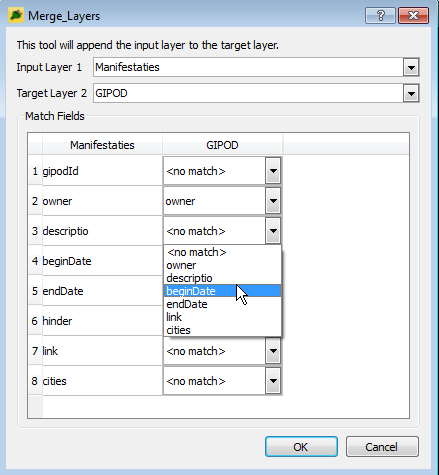
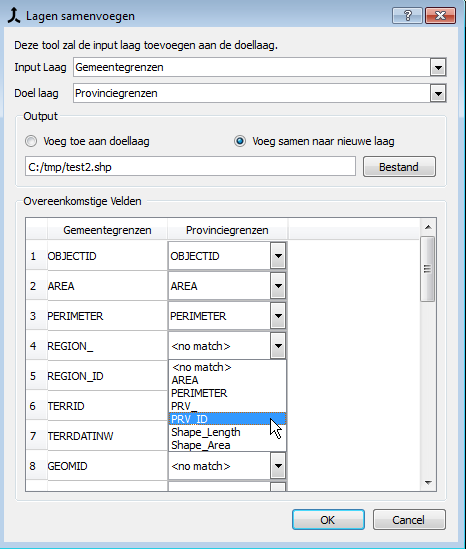
User can select if (s)he wants to write to new layer or the target layer.

Changed region(s): [[0.0, 0.0, 1.0, 1.0], [0.9772, 0.2063, 1.0, 0.2653], [0.9772, 0.9726, 1.0, 1.0]]

diff --git a/i18n/mergeLayers_nl.ts b/i18n/mergeLayers_nl.ts
@@ -18,7 +18,7 @@
     <message>
         <location filename="mergeLayers_dialog.py" line="20"/>
         <source>&lt;no match&gt;</source>
-        <translation>&lt;geen match&gt;</translation>
+        <translation type="obsolete">&lt;geen match&gt;</translation>
     </message>
     <message>
         <location filename="mergeLayers_dialog.py" line="48"/>
@@ -26,14 +26,49 @@
         <translation type="obsolete">Laag {0} zal toegevoegd worden aan {1}</translation>
     </message>
     <message>
-        <location filename="mergeLayers_dialog.py" line="110"/>
+        <location filename="mergeLayers_dialog.py" line="132"/>
         <source>Geometries don&apos;t match</source>
         <translation>Geometrietypes komen niet overeen</translation>
     </message>
     <message>
-        <location filename="mergeLayers_dialog.py" line="110"/>
+        <location filename="mergeLayers_dialog.py" line="132"/>
         <source>The geometries of inputlayer and targerlayer don&apos;t match, so the files can&apos;t be merged</source>
         <translation>Het geometrietype van de inputlaag en de doellaag komen niet overeen, hierdoor kunnen de bestanden niet samngevoegd worden</translation>
+    </message>
+    <message>
+        <location filename="mergeLayers_dialog.py" line="184"/>
+        <source>Save As</source>
+        <translation>Opslaan als</translation>
+    </message>
+    <message>
+        <location filename="mergeLayers_dialog.py" line="127"/>
+        <source>Warning</source>
+        <translation>Waarschuwing</translation>
+    </message>
+    <message>
+        <location filename="mergeLayers_dialog.py" line="116"/>
+        <source>Layers are not set correctly</source>
+        <translation>Lagen zijn niet correct ingesteld</translation>
+    </message>
+    <message>
+        <location filename="mergeLayers_dialog.py" line="127"/>
+        <source>Target is not editable, try merge to new layer</source>
+        <translation>Doel laag is niet bewerkbaar</translation>
+    </message>
+    <message>
+        <location filename="mergeLayers_dialog.py" line="138"/>
+        <source>Need a output location</source>
+        <translation>Geen output locatie opgegeven</translation>
+    </message>
+    <message>
+        <location filename="mergeLayers_dialog.py" line="138"/>
+        <source>Define a output location on for the merged layer by clicking on the &apos;File&apos;-button</source>
+        <translation>Geef een output locatie op voor de samen te voegen laag door te klikken op de &apos;Bestand&apos; knop</translation>
+    </message>
+    <message>
+        <location filename="mergeLayers_dialog.py" line="121"/>
+        <source>Target and source are the same.</source>
+        <translation>Doel en bron zijn dezelfde.</translation>
     </message>
 </context>
 <context>
@@ -54,17 +89,17 @@
         <translation>Doel laag</translation>
     </message>
     <message>
-        <location filename="ui_mergeLayers_dialog.ui" line="64"/>
+        <location filename="ui_mergeLayers_dialog.ui" line="138"/>
         <source>Match Fields</source>
         <translation>Overeenkomstige Velden </translation>
     </message>
     <message>
-        <location filename="ui_mergeLayers_dialog.ui" line="80"/>
+        <location filename="ui_mergeLayers_dialog.ui" line="154"/>
         <source>Field in the targetlayer</source>
         <translation>Veld in de doellaag</translation>
     </message>
     <message>
-        <location filename="ui_mergeLayers_dialog.ui" line="85"/>
+        <location filename="ui_mergeLayers_dialog.ui" line="159"/>
         <source>Field in the inputlayer</source>
         <translation>Veld in de inputlaag</translation>
     </message>
@@ -72,6 +107,31 @@
         <location filename="ui_mergeLayers_dialog.ui" line="14"/>
         <source>Merge layers</source>
         <translation>Lagen samenvoegen</translation>
+    </message>
+    <message>
+        <location filename="ui_mergeLayers_dialog.ui" line="58"/>
+        <source>Output</source>
+        <translation>Output</translation>
+    </message>
+    <message>
+        <location filename="ui_mergeLayers_dialog.ui" line="70"/>
+        <source>Add to target layer</source>
+        <translation>Voeg toe aan doellaag</translation>
+    </message>
+    <message>
+        <location filename="ui_mergeLayers_dialog.ui" line="86"/>
+        <source>Merge into new layer</source>
+        <translation>Voeg samen naar nieuwe laag</translation>
+    </message>
+    <message>
+        <location filename="ui_mergeLayers_dialog.ui" line="107"/>
+        <source>Merged file</source>
+        <translation>Samengevoegd bestand </translation>
+    </message>
+    <message>
+        <location filename="ui_mergeLayers_dialog.ui" line="120"/>
+        <source>File</source>
+        <translation>Bestand</translation>
     </message>
 </context>
 </TS>

diff --git a/mergeLayers_dialog.py b/mergeLayers_dialog.py
@@ -2,22 +2,27 @@
 from PyQt4 import QtGui, QtCore
 from qgis.core import *
 from ui_mergeLayers_dialog import Ui_mergeLayersDialogBase
-import os
+import os, utils
+
+
+# noinspection PyUnresolvedReferences
 class mergeLayersDialog(QtGui.QDialog):
 
     def __init__(self, iface,  parent=None):
         QtGui.QDialog.__init__(self, parent)
 
+        self.parent = parent
         self.plugin_dir = os.path.dirname(__file__)
+
         # initialize locale
-        locale = QtCore.QSettings().value('locale/userLocale')[0:2]
-        locale_path = os.path.join(self.plugin_dir, 'i18n', "mergeLayers_{}.qm".format(locale))
-        if os.path.exists(locale_path):
+        locale = QtCore.QSettings().value("locale/userLocale", "en")[0:2]
+        localePath = os.path.join(os.path.dirname(__file__), 'i18n', 'geopunt4qgis_{}.qm'.format(locale))
+        if os.path.exists(localePath):
             self.translator = QtCore.QTranslator()
-            self.translator.load(locale_path)
+            self.translator.load(localePath)
             QtCore.QCoreApplication.installTranslator(self.translator)
 
-        self.NOMATCH  =  self.tr("<no match>")
+        self.NOMATCH  = "<no match>"
 
         self.ui = Ui_mergeLayersDialogBase()
         self.ui.setupUi(self)
@@ -26,8 +31,10 @@ class mergeLayersDialog(QtGui.QDialog):
         self.updateLayers()
         self._initGui()
 
-    def tr(self, message):
-        return QCoreApplication.translate('mergeLayers', message)
+    def tr(self, message, **kwargs):
+        trans = QtCore.QCoreApplication.translate('mergeLayers', message)
+        if trans: return trans
+        else: return message
 
     def _initGui(self):
         self.ui.matchTbl.setColumnWidth(0, 120)
@@ -37,6 +44,7 @@ class mergeLayersDialog(QtGui.QDialog):
         self.iface.mapCanvas().layersChanged.connect(self.updateLayers)
         self.ui.sourceCbx.currentIndexChanged.connect( self.updateMatchWidget )
         self.ui.targetCbx.currentIndexChanged.connect( self.updateMatchWidget )
+        self.ui.outputFileBtn.clicked.connect(self.setOutput)
         self.accepted.connect(self.executeMerge)
 
     def updateMatchWidget(self):
@@ -61,7 +69,8 @@ class mergeLayersDialog(QtGui.QDialog):
         for field in sourceFields:
             sourceName = field.name()
             sourceType = field.type()
-            targetFields = [self.NOMATCH] + [f.name() for f in targetLyr.pendingFields() if f.type() == sourceType]
+            targetFields = [self.NOMATCH] + [f.name() for f in targetLyr.pendingFields()
+                                                      if f.type() == sourceType ]
             targetFieldCbx = QtGui.QComboBox()
             targetFieldCbx.insertItems(0, targetFields)
 
@@ -104,27 +113,81 @@ class mergeLayersDialog(QtGui.QDialog):
                 targetLyr = lyr
 
         if not sourceLyr or not targetLyr:
+            QtGui.QMessageBox.warning(self.iface.mainWindow(), self.tr("Warning"),
+                                      self.tr("Layers are not set correctly"), '')
+            return
+
+        if  sourceLyr == targetLyr:
+            QtGui.QMessageBox.warning(self.iface.mainWindow(), self.tr("Warning"),
+                                      self.tr("Target and source are the same."), '')
+            return
+
+
+        if self.ui.add2targetRadio.isChecked() and not targetLyr.isEditable():
+            QtGui.QMessageBox.warning(self.iface.mainWindow(), self.tr("Warning"),
+                                      self.tr("Target is not editable, try merge to new layer"), '')
             return
 
         if sourceLyr.geometryType() != targetLyr.geometryType():
-            QtGui.QMessageBox.warning( self.parent(),
-                self.tr("Geometries don't match"),
-                self.tr("The geometries of inputlayer and targerlayer don't match, so the files can't be merged") )
+            QtGui.QMessageBox.warning(self.iface.mainWindow(), self.tr("Geometries don't match"),
+                                      self.tr(
+                                          "The geometries of inputlayer and targerlayer don't match, so the files can't be merged"), '')
             return
 
-        fieldMap = self.table2fieldMap()
-        newFeats = []
+        if self.ui.merge2newRadio.isChecked() and len( self.ui.outputFileTxt.text() ) == 0:
+            QtGui.QMessageBox.warning(self.iface.mainWindow(), self.tr("Need a output location"),
+                                      self.tr(
+                                          "Define a output location on for the merged layer by clicking on the 'File'-button"), '')
+            return
 
+
+        if self.ui.add2targetRadio.isChecked():
+            self.addsource2target(sourceLyr, targetLyr)
+        else:
+            self.mergeSourceAndTarget(sourceLyr, targetLyr)
+
+        self.refresh(targetLyr)
+
+    def addsource2target(self, sourceLyr, targetLyr):
+        newFeats = []
+        fieldMap = self.table2fieldMap()
+        targetType = targetLyr.dataProvider().storageType()
+
+        targetLyr.beginEditCommand("Starting to append..")  # use editbuffer
         for sourceFeat in sourceLyr.getFeatures():
             newFeat = QgsFeature(targetLyr.pendingFields())
 
             for targetField, sourceField in fieldMap:
-                if targetField != self.NOMATCH:
-                    newFeat[targetField] = sourceFeat[sourceField]
+                if targetType == "ESRI Shapefile":
+                    targetField = utils.nameMaxLenght( targetField , 10)
 
-            newFeat.setGeometry( sourceFeat.geometry() )
+                if targetField != self.NOMATCH:
+                    newFeat.setAttribute(targetField, sourceFeat[sourceField])
+
+            newFeat.setGeometry(sourceFeat.geometry())
             newFeats.append(newFeat)
 
-        targetLyr.dataProvider().addFeatures(newFeats)
-        self.iface.mapCanvas().refresh()
+            if len(newFeats) > 5000:  # append in blocks of 5000 the speed up.
+                targetLyr.dataProvider().addFeatures(newFeats)
+                newFeats = []
+        targetLyr.dataProvider().addFeatures(newFeats)  # add remaining
+        targetLyr.endEditCommand()
 
+    def mergeSourceAndTarget(self, source, target):
+        fpath = self.ui.outputFileTxt.text()
+        newlayer = utils.copyLayer(fpath, target)
+        QgsMapLayerRegistry.instance().addMapLayer( newlayer )
+        self.addsource2target(source, newlayer)
+
+    def setOutput(self):
+        home = os.path.expanduser('~')
+        title = self.tr(u"Save As")
+        ftypeFilter = "Shapefile (*.shp);;Geopackage (*.gpkg);;GeoJSON (*.geojson);;Mapinfo (*.tab);;GML ($.gml);;SQLITE (*.sqlite)"
+        outFile = QtGui.QFileDialog.getSaveFileName( self, title, filter=ftypeFilter, directory=home )
+        self.ui.outputFileTxt.setText(outFile)
+
+    def refresh(self, layer=None):
+        if self.iface.mapCanvas().isCachingEnabled() and isinstance(layer, QgsVectorLayer):
+            layer.setCacheImage(None)
+        else:
+            self.iface.mapCanvas().refresh()

diff --git a/utils.py b/utils.py
@@ -1,0 +1,46 @@
+import os
+from qgis.core import QgsVectorFileWriter, QgsFields, QgsCoordinateReferenceSystem, QGis, QgsVectorLayer
+
+def copyLayer( path, layer ):
+    "returns the new layer"
+    flType = _getFtype(path)
+
+    if flType == "ESRI Shapefile":
+        if os.path.exists(path): QgsVectorFileWriter.deleteShapeFile( path )
+        error = QgsVectorFileWriter.writeAsVectorFormat(layer, path, "CP1250", None, flType)
+    else:
+        if os.path.exists(path): os.remove(path)
+        error = QgsVectorFileWriter.writeAsVectorFormat(layer, path, "utf-8", None, flType)
+
+    if error == QgsVectorFileWriter.NoError:
+        layer_name = os.path.splitext( os.path.basename( path ))[0]
+        newlayer = QgsVectorLayer(path, layer_name, "ogr")
+
+        if newlayer.isValid(): return newlayer
+        else: raise Exception("Could not read output")
+    else:
+        raise Exception("Could not write output")
+
+def nameMaxLenght( fieldName , maxLen=10):
+    if len( fieldName ) > maxLen:
+        return fieldName[:maxLen]
+    else:
+        return fieldName
+
+def _getFtype(path):
+    ext = os.path.splitext(path)[1]
+    if "SHP" == ext.upper():
+        flType = "ESRI Shapefile"
+    elif "SQLITE" == ext.upper():
+        flType = "SQLite"
+    elif "GPKG" == ext.upper():
+        flType = "GPKG"
+    elif "GML" == ext.upper():
+        flType = "GML"
+    elif 'TAB' == ext.upper():
+        flType = 'MapInfo File'
+    elif 'JSON' in ext.upper():
+        flType = 'GeoJSON'
+    else:
+        flType = "ESRI Shapefile"
+    return flType

diff --git a/README.md b/README.md
@@ -3,15 +3,21 @@ Merge Layers with different attributes
 
 This tool allows you to append one layer to another when the attributes don't match.
 
-![](images/Merge_Layers.png)
+- The input layer is added to the data in the target layer, if *"Add to target layer"* is checked.
+- A new layer will be created if *"Merge into new layer"* is checked.
+- You must enter the corresponding fields between the input layer and the target layer in the table below.
+- If you click OK he layers will be merged. 
 
+![](images/Merge_Layers.png)
 
 Voeg lagen samen wanneer de attributen verschillen
 ====
 
-Met deze tool kan je 2 lagen samenvoegen wanneer de namen van oovereenkomstige attributen verschillen.
-- De input laag wordt toegevoegd aan de data in de doel laag.
+Met deze tool kan je 2 lagen samenvoegen wanneer de namen van overeenkomstige attributen verschillen.
+
+- De input laag wordt toegevoegd aan de data in de doel laag, als *"Voeg toe aan doellaag"* aanvinkt is.
+- Er wordt een nieuwe laag aangemaakt indien *"Voeg samen naar nieuwe laag"* aangevinkt is.
 - Je moet de overeenkomstige velden tussen de inputlaag en de doellaag ingeven in de onderstaande tabel. 
-- Als je op OK klikt wordt de inputlaag aan de doellaag toegevoegd. 
+- Als je op OK klikt wordt bwerking uitgevoerd. 
 
 ![](images/merge_Layers.gif)
